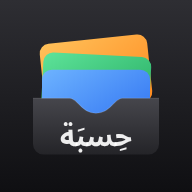
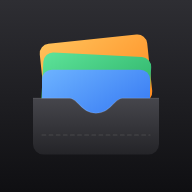
أيقونة المحفظة بدون كلمة «حسبة»
Claude-Session: https://claude.ai/code/session_01TwBokeMu8i7TTwyttZCJdS

Changed region(s): [[0.3125, 0.625, 0.6875, 0.8125]]

diff --git a/index.html b/index.html
@@ -11,8 +11,8 @@
   <meta name="apple-mobile-web-app-title" content="حِسبَة">
   <meta name="apple-mobile-web-app-status-bar-style" content="default">
   <link rel="manifest" href="manifest.webmanifest">
-  <link rel="icon" href="icons/icon.svg?v=4" type="image/svg+xml">
-  <link rel="apple-touch-icon" href="icons/apple-touch-icon.png?v=4">
+  <link rel="icon" href="icons/icon.svg?v=5" type="image/svg+xml">
+  <link rel="apple-touch-icon" href="icons/apple-touch-icon.png?v=5">
   <link rel="preload" href="fonts/noto-arabic.woff2" as="font" type="font/woff2" crossorigin>
   <link rel="stylesheet" href="styles.css">
 </head>

diff --git a/sw.js b/sw.js
@@ -1,5 +1,5 @@
 // يخلي التطبيق يشتغل بدون إنترنت. غيّر رقم النسخة لما تعدّل الملفات.
-const CACHE = 'hisba-v19';
+const CACHE = 'hisba-v20';
 const ASSETS = ['./', 'index.html', 'styles.css', 'manifest.webmanifest', 'js/app.js', 'js/store.js', 'js/parser.js',
   'js/categories.js', 'js/insights.js', 'js/charts.js', 'js/budget.js', 'js/icons.js', 'js/rates.js', 'fonts/noto-arabic.woff2', 'fonts/noto-latin.woff2', 'icons/icon-512.png', 'icons/icon.svg', 'icons/icon-192.png', 'icons/apple-touch-icon.png'];
 
